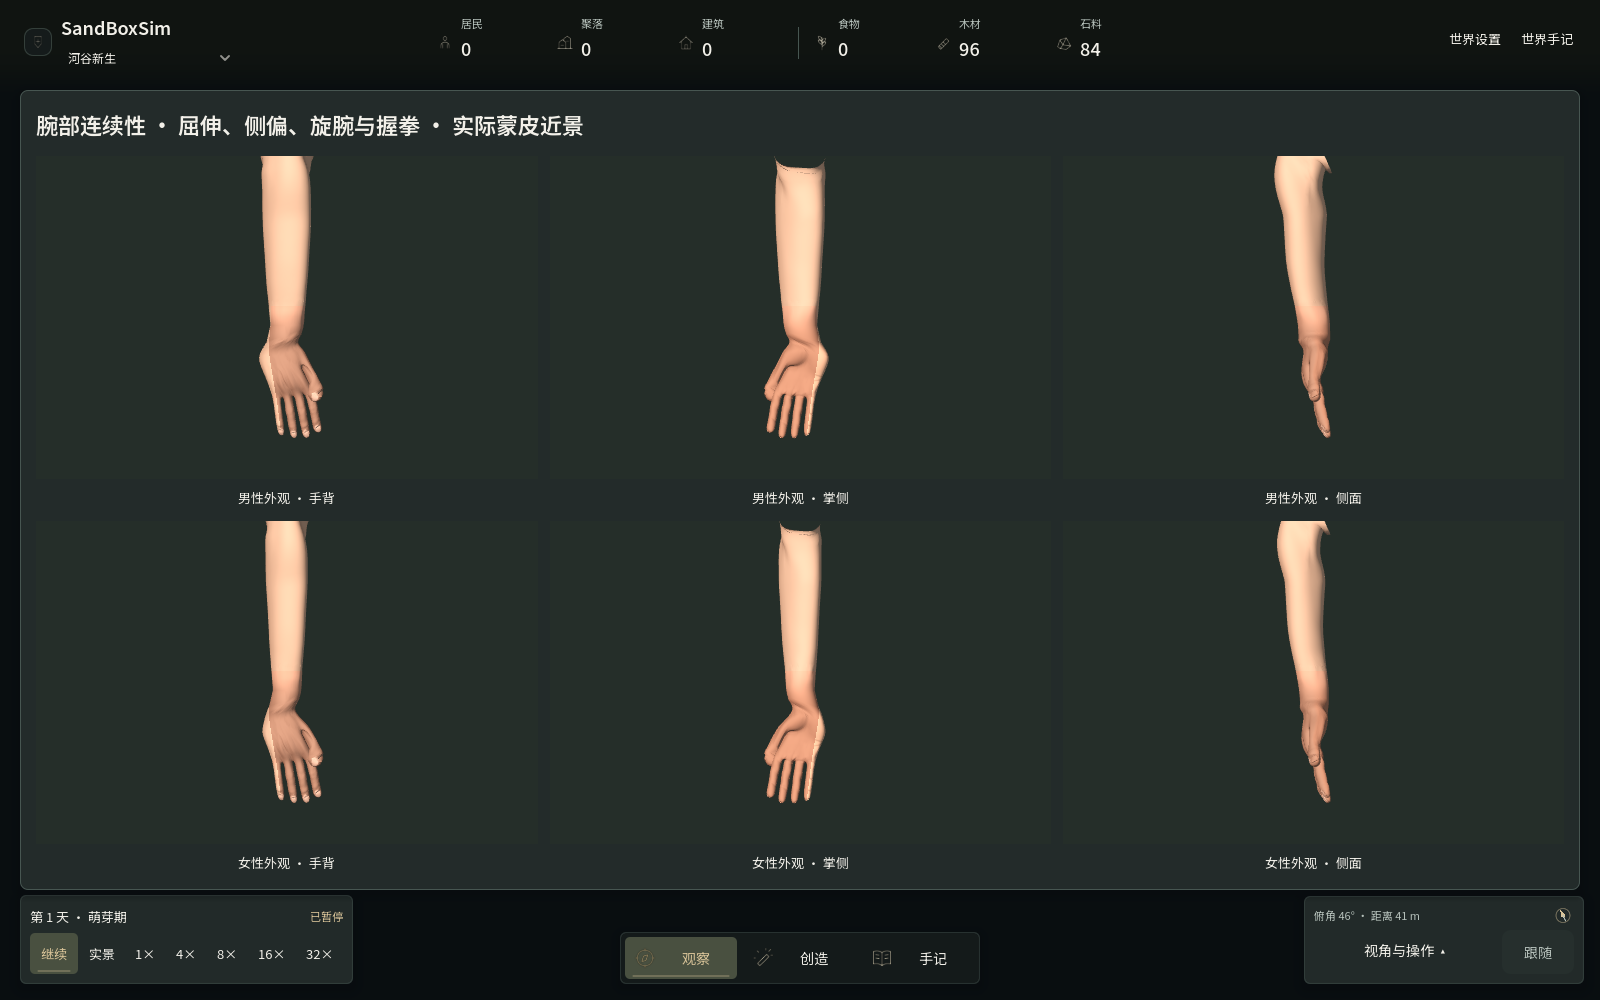
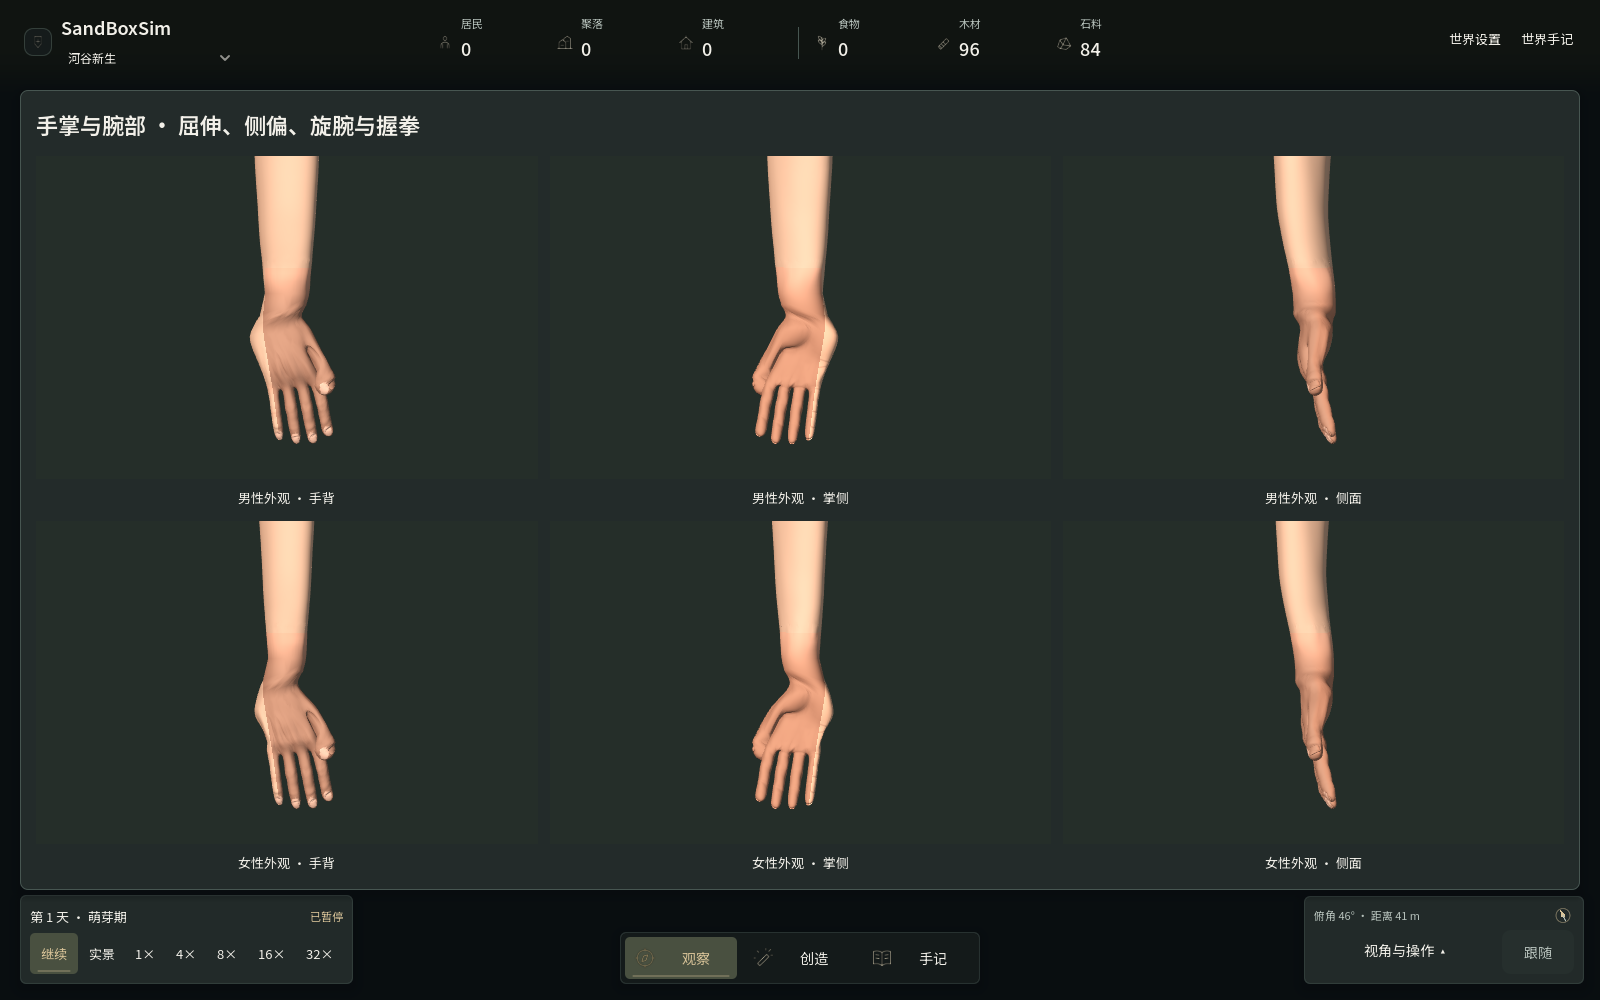
Refine the female palm and wrist silhouette

diff --git a/src/SandBoxSim.Godot/NatureModels.WristContour.cs b/src/SandBoxSim.Godot/NatureModels.WristContour.cs
@@ -8,6 +8,74 @@ internal sealed partial class NatureModels
     private static (Vector3 Point,Vector3 Normal) RefineForearmProfile(Vector3 point,Vector3 normal,int frame)
         =>FitForearmSupport(point,normal,frame);
 
+    private static void FitFemalePalm(Vector3[] points,Vector3[] normals,int[] indices)
+    {
+        // In canonical hand space +X is the little-finger side and +Z the
+        // back of the hand. Shape the proximal palm across both surfaces
+        // before mirroring, with the palmar grip and thumb base pinned.
+        var rest=(Vector3[])points.Clone();
+        var moved=new float[points.Length];
+        for(int i=0;i<points.Length;i++)
+        {
+            var p=rest[i];
+            float proximal=TorsoRamp(-.040f,-.024f,p.Y)*(1-TorsoRamp(-.015f,.008f,p.Y));
+            float ulnar=TorsoRamp(.012f,.025f,p.X)*TorsoRamp(-.012f,-.002f,p.Z);
+            float dorsalHeight=TorsoRamp(-.035f,-.022f,p.Y)*(1-TorsoRamp(-.012f,.019f,p.Y));
+            float dorsal=TorsoRamp(.003f,.011f,p.Z)*TorsoRamp(-.028f,-.010f,p.X);
+            var offset=new Vector3(-.0038f*proximal*ulnar,0,-.0032f*dorsalHeight*dorsal);
+            if(offset==Vector3.Zero)continue;
+            points[i]+=offset;
+            moved[i]=1;
+        }
+        TransportFairingNormals(rest,points,normals,indices,moved);
+    }
+
+    private static void ValidateFemalePalmGeometry(ResidentRig male,ResidentRig female)
+    {
+        // Use a proximal palm plane outside the independent forearm fit.
+        // Slice the triangles of both gameplay representations.
+        Vector2 Section(Mesh mesh)
+        {
+            const float y=-.024f;
+            var arrays=mesh.SurfaceGetArrays(0);
+            var p=arrays[(int)Mesh.ArrayType.Vertex].AsVector3Array();
+            var ids=arrays[(int)Mesh.ArrayType.Index].AsInt32Array();
+            float low=float.PositiveInfinity,high=float.NegativeInfinity,back=high;
+            for(int t=0;t<ids.Length;t+=3)for(int edge=0;edge<3;edge++)
+            {
+                var a=p[ids[t+edge]];var b=p[ids[t+(edge+1)%3]];
+                if((a.Y-y)*(b.Y-y)>0||MathF.Abs(b.Y-a.Y)<1e-9f)continue;
+                var hit=a.Lerp(b,(y-a.Y)/(b.Y-a.Y));
+                low=MathF.Min(low,hit.X);high=MathF.Max(high,hit.X);
+                if(MathF.Abs(hit.X)<.020f)back=MathF.Max(back,hit.Z);
+            }
+            return new(high-low,back);
+        }
+        for(int side=0;side<2;side++)
+        foreach(bool distant in new[]{false,true})
+        {
+            var original=distant?male.HandOpen[side]:male.HandSkins[side].Mesh;
+            var fitted=distant?female.HandOpen[side]:female.HandSkins[side].Mesh;
+            var change=Section(original)-Section(fitted);
+            float minimumDepth=distant?.0017f:.0026f;
+            if(!change.IsFinite()||change.X<.001f||change.X>.0041f||change.Y<minimumDepth||change.Y>.0035f)
+                throw new InvalidOperationException($"Female palm profile loses its contour: side={side}, distant={distant}, width/depth={change}");
+            if(original.GetSurfaceCount()!=fitted.GetSurfaceCount())
+                throw new InvalidOperationException("Female palm fit changes the hand material partitions");
+            for(int surface=0;surface<original.GetSurfaceCount();surface++)
+            {
+                var before=original.SurfaceGetArrays(surface)[(int)Mesh.ArrayType.Vertex].AsVector3Array();
+                var after=fitted.SurfaceGetArrays(surface)[(int)Mesh.ArrayType.Vertex].AsVector3Array();
+                if(before.Length!=after.Length)
+                    throw new InvalidOperationException("Female palm fit changes the hand vertex count");
+                for(int i=0;i<before.Length;i++)
+                    if((surface==1||before[i].Y<-.047f)&&before[i].DistanceTo(after[i])>.000001f)
+                        throw new InvalidOperationException("Female palm fit moves the fingertips or nails");
+            }
+            GD.Print($"FEMALE_PALM_PASS: side={side}, distant={distant}, width reduction={change.X*1000:F2} mm, dorsal reduction={change.Y*1000:F2} mm; fixed fingertips and nails");
+        }
+    }
+
     private static void ValidateWristContour()
     {
         ValidateForearmProfileContinuity();

diff --git a/src/SandBoxSim.Godot/NatureModels.HandlingValidation.cs b/src/SandBoxSim.Godot/NatureModels.HandlingValidation.cs
@@ -66,9 +66,9 @@ internal sealed partial class NatureModels
         for(int i=0;i<points.Length;i++)if(Root(i)!=Root(0))throw new InvalidOperationException("Hand and forearm are not one connected skin");
     }
     private static Vector3 ReflectHand(Vector3 point)=>new(-point.X,point.Y,point.Z);
-    private void ValidateHandLaterality()
+    private void ValidateHandLaterality(int identity)
     {
-        var rig=Resident(17,false,JobType.Gatherer);
+        var rig=Resident(identity,false,JobType.Gatherer);
         void CheckMirroredMesh(Mesh left,Mesh right,bool skinned)
         {
             if(left==right)throw new InvalidOperationException("Both hands share the same unmirrored mesh");
@@ -136,7 +136,7 @@ internal sealed partial class NatureModels
                 throw new InvalidOperationException("Distance switch replaces both hands with a right hand");
             rig.SetHandDetail(true);
         }
-        rig.Free();GD.Print("HAND_LATERALITY_PASS: distinct left/right near/far hands, thumb side, normals/winding, finger identity, open/closed binding and LOD switching");
+        rig.Free();GD.Print($"HAND_LATERALITY_PASS: identity={identity}, distinct left/right near/far hands, thumb side, normals/winding, finger identity, open/closed binding and LOD switching");
     }
     private void ValidateSocialGesture()
     {
@@ -165,7 +165,7 @@ internal sealed partial class NatureModels
     }
     private void ValidateHandling()
     {
-        ValidateCultivation();ValidateForearmSurfaces();ValidateHandLaterality();ValidateSocialGesture();ValidatePresentationCadence();ValidateLocomotion();ValidateWalkingArms();ValidateReachTrajectories();ValidateEffortPresentation();ValidateMotionContinuity();ValidateWorkSupport();ValidateCarrying();ValidateAnimalContacts();ValidateBareTransitions();
+        ValidateCultivation();ValidateForearmSurfaces();ValidateHandLaterality(17);ValidateHandLaterality(55);ValidateSocialGesture();ValidatePresentationCadence();ValidateLocomotion();ValidateWalkingArms();ValidateReachTrajectories();ValidateEffortPresentation();ValidateMotionContinuity();ValidateWorkSupport();ValidateCarrying();ValidateAnimalContacts();ValidateBareTransitions();
         foreach(var action in new[]{ActionKind.GatherWood,ActionKind.GatherIron,ActionKind.Farm,ActionKind.BuildHouse})
         {
             var rig=Resident(17,false,JobType.Gatherer);

diff --git a/src/SandBoxSim.Godot/ModelGallery.WristStudy.cs b/src/SandBoxSim.Godot/ModelGallery.WristStudy.cs
@@ -10,11 +10,11 @@ internal partial class ModelGallery
     private readonly List<(ResidentRig Rig,Camera3D Camera,int View,DirectionalLight3D Key,DirectionalLight3D Fill)> _wristStudies=new();
     private void BuildWristStudy(NatureModels models,GridContainer grid,Label heading)
     {
-        grid.Columns=3;heading.Text="腕部连续性 · 屈伸、侧偏、旋腕与握拳 · 实际蒙皮近景";
+        grid.Columns=3;heading.Text="手掌与腕部 · 屈伸、侧偏、旋腕与握拳";
         for(int frame=0;frame<2;frame++)for(int view=0;view<3;view++)
         {
             var rig=models.Resident(frame==0?17:55,false,JobType.None);rig.AmbientMotionEnabled=false;
-            Closeup(grid,(frame==0?"男性外观":"女性外观")+(view==0?" · 手背":view==1?" · 掌侧":" · 侧面"),rig,.40f,new(0,1,0),new(0,0,2),true);
+            Closeup(grid,(frame==0?"男性外观":"女性外观")+(view==0?" · 手背":view==1?" · 掌侧":" · 侧面"),rig,.30f,new(0,1,0),new(0,0,2),true);
             var viewport=grid.GetChild<VBoxContainer>(grid.GetChildCount()-1).GetChild<SubViewportContainer>(0).GetChild<SubViewport>(0);
             var stage=viewport.GetChild<Node3D>(0);var camera=stage.GetChild<Camera3D>(stage.GetChildCount()-1);
             // Isolate the actual connected skin through visibility layers;
@@ -39,7 +39,7 @@ internal partial class ModelGallery
         {
             rig.StudyWrist(delta,_elapsed);
             var axis=rig.Elbows[1].GlobalBasis.Orthonormalized();
-            var target=rig.Hands[1].GlobalPosition+axis*new Vector3(0,.055f,0);
+            var target=rig.Hands[1].GlobalPosition+axis*new Vector3(0,.023f,0);
             camera.GlobalPosition=target+axis*(view==0?new Vector3(.06f,.02f,2):view==1?new Vector3(.06f,.02f,-2):new Vector3(2,.02f,.06f));
             camera.LookAt(target,axis*Vector3.Up);
             key.GlobalBasis=camera.GlobalBasis*Basis.FromEuler(new(-.35f,-.45f,0));

diff --git a/src/SandBoxSim.Godot/NatureModels.SurfaceFairing.cs b/src/SandBoxSim.Godot/NatureModels.SurfaceFairing.cs
@@ -252,6 +252,7 @@ internal sealed partial class NatureModels
     private void FairForearmRest(Vector3[] points,Vector3[] normals,int[] indices,int frame,string source)
     {
         bool wristJoin=frame==1&&source!="hand-lod";
+        bool femalePalm=frame==1&&(source is "hand" or "hand-lod");
         source=frame+":"+source;
         if(_forearmFairings.TryGetValue(source,out var cached))
         {
@@ -262,6 +263,7 @@ internal sealed partial class NatureModels
         FairRestSurface(points,indices,freedom,frame==1?.0008f:.00065f);
         TransportFairingNormals(rest,points,normals,indices,freedom);
         if(wristJoin)BlendFemaleForearmJoin(points,normals,indices);
+        if(femalePalm)FitFemalePalm(points,normals,indices);
         _forearmFairings[source]=((Vector3[])points.Clone(),(Vector3[])normals.Clone());
     }
 

diff --git a/src/SandBoxSim.Godot/NatureModels.BodyFrame.cs b/src/SandBoxSim.Godot/NatureModels.BodyFrame.cs
@@ -584,6 +584,7 @@ internal sealed partial class NatureModels
                 throw new InvalidOperationException($"Fitted facing intersects the turning neck or reveals its source edge: samples={rimProbes}, radial={rimClearance*1000:F2} mm, cover={coveredNeckEdge*1000:F2} mm");
             GD.Print($"COLLAR_CLEARANCE_PASS: {rimProbes} radial sections against actual neck skin, minimum={rimClearance*1000:F2} mm, source edge cover={coveredNeckEdge*1000:F2} mm");
             ValidateForearmSupport(male,0);ValidateForearmSupport(female,1);
+            ValidateFemalePalmGeometry(male,female);
             foreach(var rig in new[]{male,female})
             {
                 ValidateArmClothingFit(rig);

diff --git a/docs/development/models.md b/docs/development/models.md
@@ -923,6 +923,8 @@ $blender = '.tools/blender-4.5.14/editor/blender-4.5.14-windows-x64/blender.exe'
 
 成人女性的宽度拟合从绑定坐标 −14 毫米的掌根开始，经 49 毫米的五次过渡接入前臂来源截面。掌侧深度保留独立的来源拟合，手指、甲面、拇指关节及握柄坐标固定。原腕臂接合带从上下实际网格取四组截面，用带端部切线的曲线圆顺径向轮廓，位移限于 1.4 毫米，并从修改后的表面运输法线。`FEMALE_WRIST_TAPER_PASS` 逐段核对两手的成品宽度和相邻截面差。女性袖口使用单层翻边，近远景核对同一袖缘的覆盖。形体参照按前臂截面理解肌腹和腕部的过渡。[前臂横断面 MRI 研究](https://pubmed.ncbi.nlm.nih.gov/9438504/)
 
+女性手掌在腕部与指根之间使用局部曲面修形。小指侧逐渐收窄，掌背靠腕的隆起平缓接入腕口。拇指根、掌心深侧的握持面、指端和甲面保留原有形体。近景蒙皮和远景手掌使用同一曲面，并在统一的手坐标下生成左右镜像。`FEMALE_PALM_PASS` 在实际近远景网格上测掌根截面，并检查指端和甲面。幅度按当前居民的手型选定。[女性手型三维扫描研究](https://www.nature.com/articles/s41598-026-43547-z) · [数字化手与前臂解剖研究](https://pmc.ncbi.nlm.nih.gov/articles/PMC6183001/)
+
 `bodyPresentation=continuous-drape-v29` 还包含男性肩袖最多 3 毫米的双向表面圆顺，以及女性腰胯到上腿最多 2 毫米的有界圆顺；后者在高度 0.58–0.64 米接入、0.80–0.87 米退出，横向 70–110 毫米之外逐步生效，保留腰口、裤裆和靴口。原有女性肩袖拟合保持独立，法线从实际成品网格更新，来源资产和许可不变。
 
 女性裤装在静止时额外圆顺裤裆缝两侧至上腿内侧的凹折。该修形限制在离中线 12–95 毫米、高度 0.64–0.84 米的区域，最大位移 6 毫米。上腿外侧的修形保留骨盆宽度，在下方逐渐收进，前侧的修形将大腿上缘接回骨盆前片。两个方向的局部位移各在约 4 毫米以内。`FEMALE_HIP_TRANSITION_PASS` 测量 0.69 米与 0.78 米两处成品截面的半宽差。区域划分参考同一组女性在站立、行走、上台阶和坐姿下的下肢扫描。[不同姿势的女性下肢扫描](https://kjournal.co.kr/_common/do.php?a=full&aidx=19566&b=12&bidx=1544)

diff --git a/docs/images/README.md b/docs/images/README.md
@@ -37,7 +37,7 @@
 | 成人体型与女性衣身 | `visual-body-frames`、`visual-thorax-frames` 第 90 帧。全身图对照腰背、骨盆和上腿。近景从正面、三刻面和侧面对照胸廓、腰线与腹部 | [全身三视图](resident-body-frames.png) · [女性衣身近景](resident-thorax-detail.png) |
 | 成人头脸 | `visual-faces`、`visual-face-frames` 第 90 帧 | [三种头脸](resident-face-detail.png) · [成人外观对照](resident-face-frames.png) |
 | 三种衣装的正背面 | `visual-wardrobe`、`visual-female-wardrobe` 第 90 帧，可对照女性腰下褶线、双肩背包和后腰皮袋 | [男性成衣](wardrobe-detail.png) · [女性成衣](resident-female-wardrobe.png) |
-| 手部、前臂和腕部 | `visual-hands`、`visual-forearm-frames` 第 90 帧，`visual-wrist-motion` 第 150 帧 | [握持](resident-hand-detail.png) · [前臂三视图](resident-forearm-frames.png) · [腕部近景](resident-wrist-motion.png) |
+| 手部、前臂和腕部 | `visual-hands`、`visual-forearm-frames` 第 90 帧，`visual-wrist-motion` 第 150 帧可对照手背、掌侧与侧面的近腕轮廓 | [握持](resident-hand-detail.png) · [前臂三视图](resident-forearm-frames.png) · [手掌与腕部近景](resident-wrist-motion.png) |
 | 静立、步行与拾取 | `visual-body-motion` 第 105 帧，可观察弯身时胸廓、骨盆和双膝的配合，以及裤装在屈髋处的变化 | [全身姿势](resident-body-motion.png) |
 | 同速步行、搬运和持锤 | `visual-locomotion` 第 180 帧 | [步态对照](resident-style-walk.png) |
 | 交谈、递交与进食 | `visual-social` 第 150 帧 | [生活动作](resident-social.png) |

diff --git a/CHANGELOG.md b/CHANGELOG.md
@@ -4,6 +4,7 @@
 
 ## 2026-11-06
 
+- 女性手掌重塑小指侧与掌背的近腕曲面，左右手和近远景采用同一形体。手掌图册拉近镜头，可对照转腕与握拳时的轮廓。
 - 女性裤腰前片和上衣腹部共用同一形体支撑，收顺了腰带下方的横凸。成衣近景加入腰线与胸腹的对照标注。
 - 女性角色重塑骨盆到上腿的侧面与正面过渡。迈步和拾取时，裤装前片形成随左右髋独立变化的浅褶，臀腿后侧在弯曲时保持连续。
 - 女性角色重塑腋窝前后折线之间的胸侧轮廓。三款上衣在抬臂时减少袖窿下方的外凸和堆褶。
